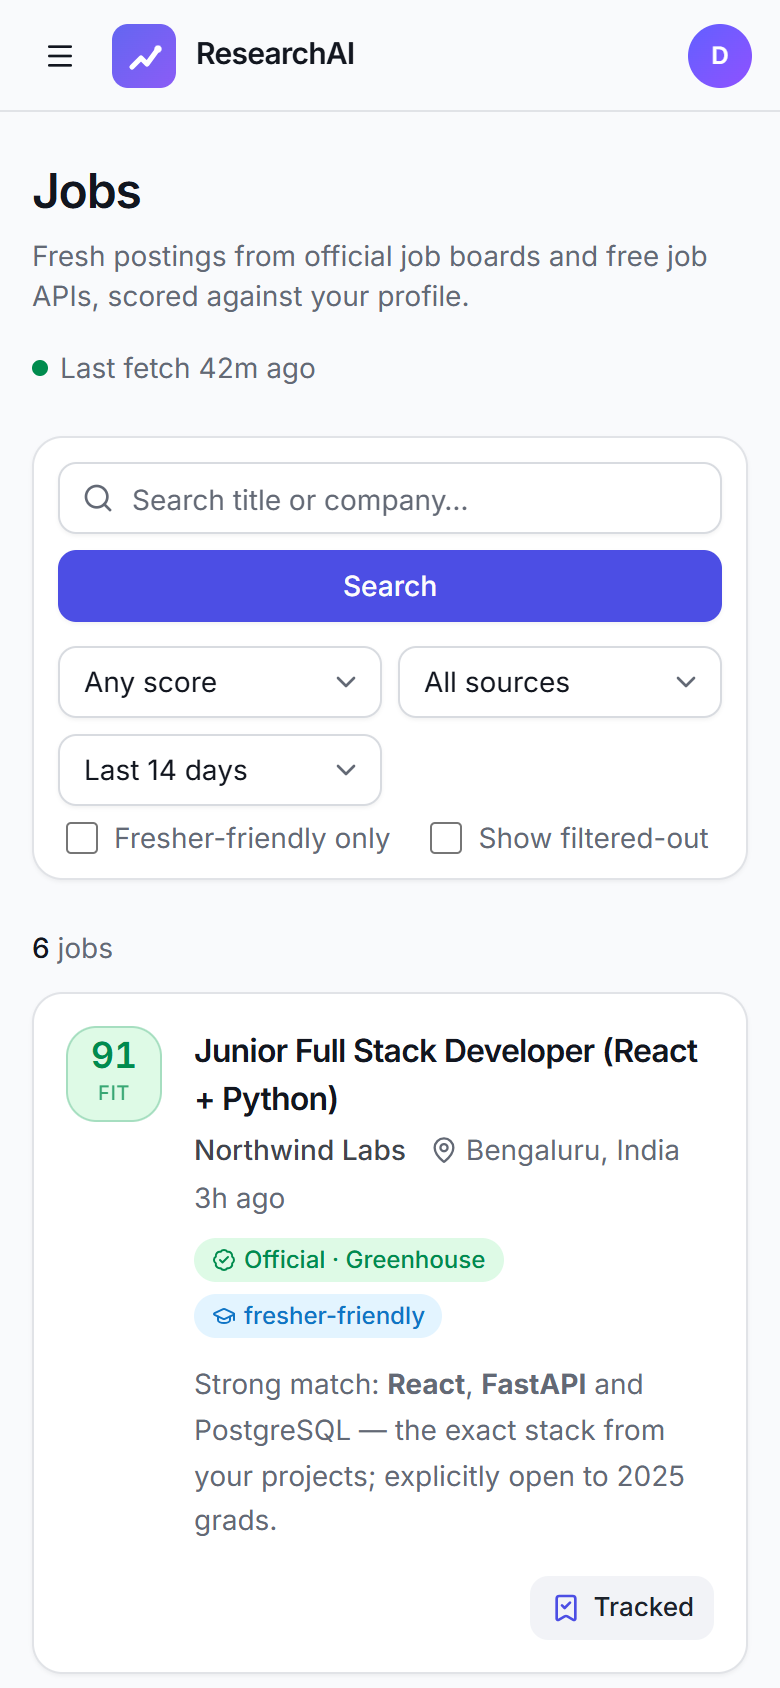
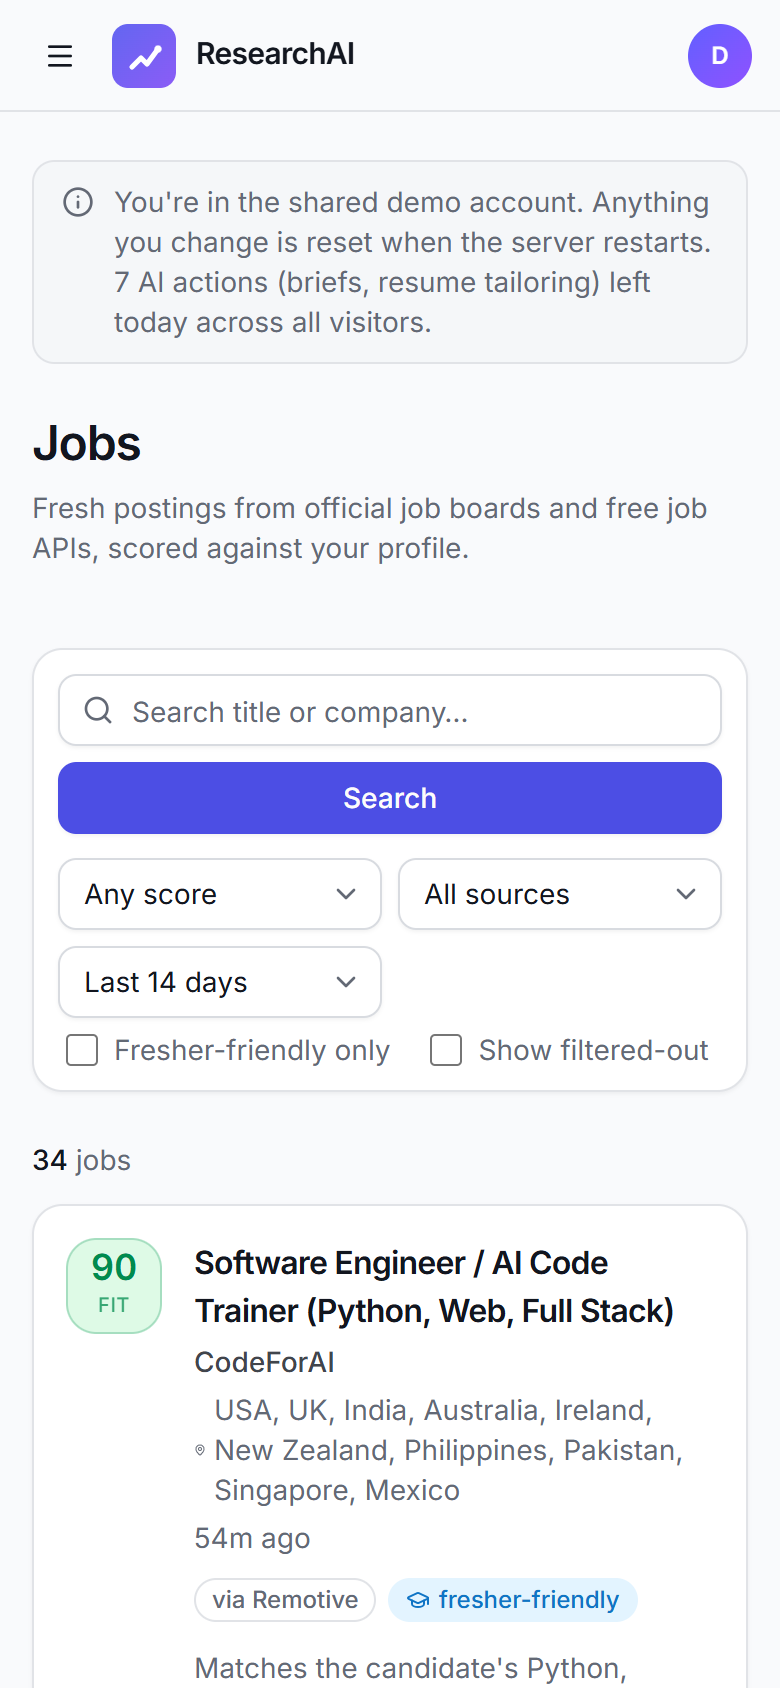
Live demo link and screenshots taken from the deployed app
Replaces the earlier screenshots, which used a mocked API and fictional
companies.

Changed region(s): [[0.0308, 0.0924, 0.9231, 0.955], [0.2462, 0.9242, 0.8923, 1.0], [0.8, 0.6777, 0.8615, 0.7085]]

diff --git a/README.md b/README.md
@@ -8,7 +8,7 @@ research brief on any company.
 
 It never scrapes LinkedIn/Naukri/Indeed, never auto-applies, and never sends a message on your behalf.
 
-**Live demo:** <!-- LIVE_URL --> (click **Try the demo**; no sign-up). The free hosting sleeps when
+**Live demo: https://researchai-web.onrender.com** (click **Try the demo**; no sign-up). The free hosting sleeps when
 idle, so the first load can take a minute or two.
 
 ![Jobs page: matches scored against the profile, with the model's one-line reason](docs/screenshots/jobs.png)
@@ -236,10 +236,16 @@ docs/DECISIONS.md  why each technical choice was made, phase by phase
 
 ## Screenshots
 
+Taken from the live demo (real postings, demo account).
+
 | Job page: fit reason, red flags, tailored-resume diff | Application tracker |
 |---|---|
 | ![Job detail](docs/screenshots/job-detail.png) | ![Tracker](docs/screenshots/tracker.png) |
 
-| Company brief with clickable citations | Mobile |
+| Company brief with clickable citations | Jobs, dark theme |
 |---|---|
-| ![Company brief](docs/screenshots/brief.png) | <img src="docs/screenshots/mobile-jobs.png" width="300" alt="Jobs on mobile"> |
+| ![Company brief](docs/screenshots/brief.png) | ![Jobs, dark theme](docs/screenshots/jobs-dark.png) |
+
+| Landing page with the demo button | Mobile |
+|---|---|
+| ![Landing page](docs/screenshots/login.png) | <img src="docs/screenshots/mobile-jobs.png" width="300" alt="Jobs on mobile"> |
